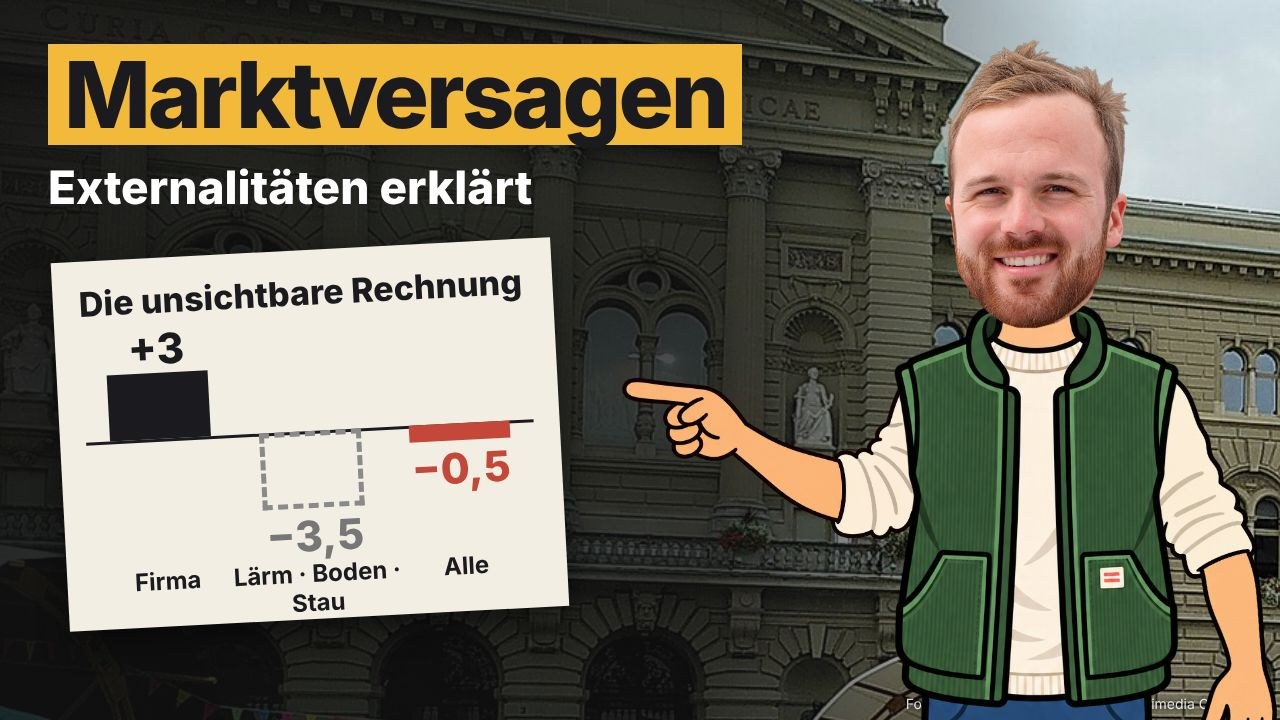
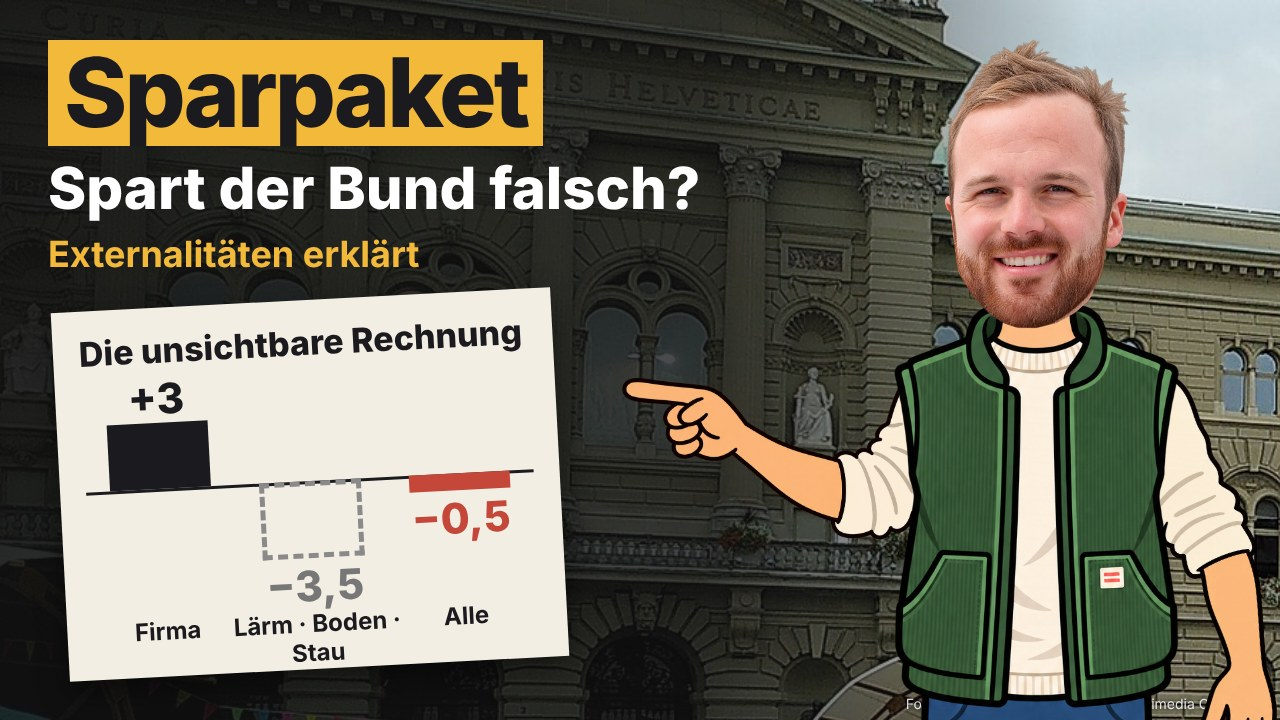
Video 1: Titel «Sparpaket: Spart der Bund falsch? Externalitäten erklärt», Bezug zur Spardebatte, neues Poster
Claude-Session: https://claude.ai/code/session_014HZFuDxBvQDHbcwtMnF1nx

Changed region(s): [[0.0312, 0.0306, 0.5938, 0.9472], [0.0938, 0.7944, 0.1562, 0.825]]

diff --git a/politik/videos/externalitaeten/index.html b/politik/videos/externalitaeten/index.html
@@ -5,13 +5,13 @@
   <meta name="viewport" content="width=device-width, initial-scale=1.0">
   <script src="/src/site-legal.js" defer></script>
   <script src="/src/site-init.js"></script>
-  <title>Marktversagen: Wer zahlt die Externalitäten? – Politik</title>
+  <title>Sparpaket: Spart der Bund falsch? Externalitäten erklärt – Politik</title>
   <link rel="icon" href="/src/img/favicon.svg">
   <meta name="description" content="Der Bund spart 1,4 Milliarden. Aber welche Kürzung spart wirklich? Marktversagen und Externalitäten einfach erklärt, mit Kapiteln und Quellen.">
   <meta name="theme-color" content="#dbedd8">
   <link rel="canonical" href="https://riozma.ch/politik/videos/externalitaeten/">
   <meta property="og:type" content="video.other">
-  <meta property="og:title" content="Marktversagen: Wer zahlt die Externalitäten?">
+  <meta property="og:title" content="Sparpaket: Spart der Bund falsch? Externalitäten erklärt">
   <meta property="og:description" content="Der Bund spart 1,4 Milliarden. Aber welche Kürzung spart wirklich?">
   <meta property="og:url" content="https://riozma.ch/politik/videos/externalitaeten/">
   <meta property="og:image" content="https://riozma.ch/politik/videos/externalitaeten/poster.jpg">
@@ -27,11 +27,11 @@
     <article class="newspaper-article">
       <header class="article-header">
         <p class="article-kicker">Politik · Video</p>
-        <h1 class="article-headline">Marktversagen: Wer zahlt die Externalitäten?</h1>
+        <h1 class="article-headline">Sparpaket: Spart der Bund falsch? Externalitäten erklärt</h1>
         <div class="article-byline">
           <span class="article-author">Manuel Rio Zeltner</span>
           <span class="article-sep">|</span>
-          <time datetime="2026-11-23">23. November 2026</time>
+          <time datetime="2026-11-24">24. November 2026</time>
           <span class="article-sep">|</span>
           <span>23:40 Min.</span>
         </div>
@@ -43,7 +43,7 @@
       </div>
 
       <div class="article-body">
-        <p>Der Bund will sparen. Das Parlament hat ein Sparpaket beschlossen: 2027 gibt der Bund rund 1,4 Milliarden Franken weniger aus. Aber nicht jede Kürzung spart wirklich. Manche verschiebt die Kosten nur, zu anderen oder in die Zukunft. Woran erkennt man den Unterschied?</p>
+        <p>Der Bund will sparen, und die Debatte darüber ist gerade in vollem Gang: Das Parlament hat das Entlastungspaket 27 beschlossen, 2027 gibt der Bund rund 1,4 Milliarden Franken weniger aus. Die Finanzkommission des Nationalrats hat zudem empfohlen, das Budget 2027 abzulehnen. Aber nicht jede Kürzung spart wirklich. Manche verschiebt die Kosten nur, zu anderen oder in die Zukunft. Woran erkennt man den Unterschied?</p>
         <p>Dieses Video zeigt ein System, mit dem man Ausgaben des Bundes ordnen kann: Externalitäten, eine Idee des britischen Ökonomen Arthur Cecil Pigou. Wir rechnen ein hypothetisches Logistikzentrum einmal für die Firma und einmal für die ganze Gesellschaft durch, ordnen Externalitäten als eine Form von Marktversagen ein und schauen, wo der Preis in der Schweiz heute die Wahrheit sagt: beim CO2, im Verkehr und bei der Care-Arbeit. Und wir fragen, wann Subventionen in eine Falle führen und wann ein Verbot besser ist als ein Preis.</p>
         <p>Die eine Frage für das nächste Abstimmungsbüchlein: <strong>Wer verursacht hier Kosten oder Nutzen, die er nicht selbst trägt? Und wird das richtig bepreist?</strong></p>
         <p>Wertungen sind im Video als Meinung gekennzeichnet, Gegenargumente kommen zur Sprache. Das ist mein erstes Video in dieser Art. Rückmeldungen sind sehr willkommen.</p>
